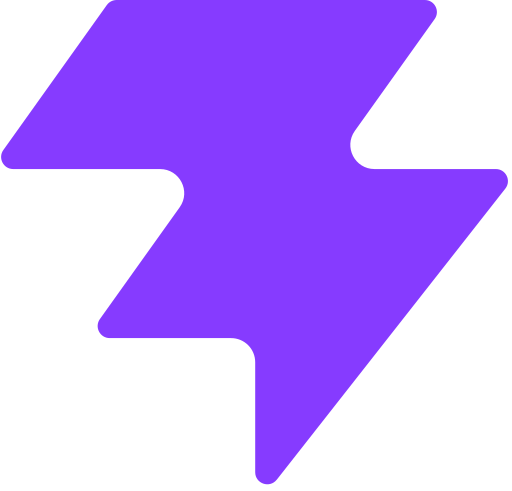
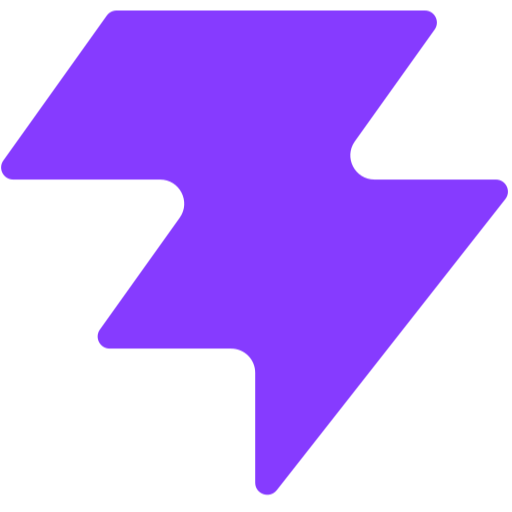
fix(web): address cross-review findings for PWA manifest
- purpose: maskable を削除（セーフエリア未確保のため）
- apple-touch-icon に sizes="180x180" を追加
- devOptions.enabled: true で dev mode でも manifest を提供
- E2E テスト追加（アイコン存在確認、manifest 内容確認）
- eslint.config.js / .prettierignore に dev-dist/ を除外追加
- アイコン PNG を正方形に再生成（192×192、512×512、180×180）

diff --git a/packages/web/e2e/pwa.spec.ts b/packages/web/e2e/pwa.spec.ts
@@ -1,0 +1,33 @@
+import { expect, test } from '@playwright/test';
+
+test.describe('PWA manifest とアイコン', () => {
+  test('アイコンファイルが存在する', async ({ page }) => {
+    for (const path of ['/icon-192.png', '/icon-512.png', '/apple-touch-icon.png']) {
+      const response = await page.request.get(path);
+      expect(response.status(), `${path} が 200 を返すこと`).toBe(200);
+      expect(response.headers()['content-type']).toContain('image/png');
+    }
+  });
+
+  test('index.html に apple-touch-icon リンクがある', async ({ page }) => {
+    await page.goto('/');
+    const appleIcon = page.locator('link[rel="apple-touch-icon"]');
+    await expect(appleIcon).toHaveAttribute('href', '/apple-touch-icon.png');
+    await expect(appleIcon).toHaveAttribute('sizes', '180x180');
+  });
+
+  test('manifest.webmanifest が有効な内容を持つ', async ({ page }) => {
+    const response = await page.request.get('/manifest.webmanifest');
+    expect(response.status()).toBe(200);
+
+    const manifest = (await response.json()) as Record<string, unknown>;
+    expect(manifest.name).toBe('bkmk');
+    expect(manifest.display).toBe('standalone');
+    expect(Array.isArray(manifest.icons)).toBe(true);
+
+    const icons = manifest.icons as Array<{ src: string; sizes: string }>;
+    const sizes = icons.map((i) => i.sizes);
+    expect(sizes).toContain('192x192');
+    expect(sizes).toContain('512x512');
+  });
+});

diff --git a/packages/web/vite.config.ts b/packages/web/vite.config.ts
@@ -10,6 +10,10 @@ export default defineConfig({
     tailwindcss(),
     VitePWA({
       registerType: 'autoUpdate',
+      devOptions: {
+        enabled: true,
+        suppressWarnings: true,
+      },
       manifest: {
         name: 'bkmk',
         short_name: 'bkmk',
@@ -27,12 +31,6 @@ export default defineConfig({
             src: '/icon-512.png',
             sizes: '512x512',
             type: 'image/png',
-          },
-          {
-            src: '/icon-512.png',
-            sizes: '512x512',
-            type: 'image/png',
-            purpose: 'maskable',
           },
         ],
       },

diff --git a/packages/web/index.html b/packages/web/index.html
@@ -3,7 +3,7 @@
   <head>
     <meta charset="UTF-8" />
     <link rel="icon" type="image/svg+xml" href="/favicon.svg" />
-    <link rel="apple-touch-icon" href="/apple-touch-icon.png" />
+    <link rel="apple-touch-icon" sizes="180x180" href="/apple-touch-icon.png" />
     <meta name="viewport" content="width=device-width, initial-scale=1.0" />
     <title>bkmk</title>
   </head>

diff --git a/eslint.config.js b/eslint.config.js
@@ -5,7 +5,7 @@ import tseslint from 'typescript-eslint';
 import globals from 'globals';
 
 export default tseslint.config(
-  { ignores: ['**/dist/**', '**/node_modules/**'] },
+  { ignores: ['**/dist/**', '**/dev-dist/**', '**/node_modules/**'] },
   eslint.configs.recommended,
   ...tseslint.configs.recommended,
   {
